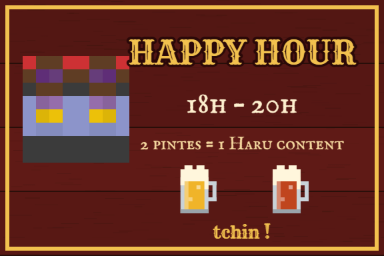
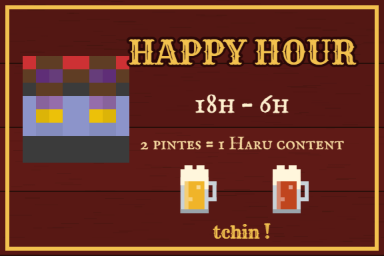
Stock the Cave à Haru bar and build it on whichever street row is bought
- /caveharu picks the pair of street lots owned by the same player, so it
  works from mid-street for the row facing the screenshot too.
- The bar's barrel rack is filled with the mod's drinks (one per column,
  16 per barrel) and a chalkboard "LA CARTE" lists Mouloud's prices next to
  the Happy Hour poster, now 18h – 6h.
- The cleared zone stops one row short of the street, so Martine keeps
  her fixed spot in front of the north row.
- Undo empties the cave's containers first (no drinks spilled), clears
  dropped decor, and cave paintings that load after an undo are dropped.

Changed region(s): [[0.4688, 0.3438, 0.7812, 0.4688]]

diff --git a/docs/cave-haru/cave.html b/docs/cave-haru/cave.html
@@ -169,6 +169,7 @@ const AFFS = [];
 function affiche(nom, x, y, z, face) { AFFS.push({ nom, x, y, z, face }); }
 let HARU = null;
 function haru(x, y, z, yaw) { HARU = { x, y, z, yaw }; }
+function remplir() {} // le contenu des tonneaux : seulement dans le jeu
 function deco(x, y, z, t, f = 'cube', d = null) { DECO.push({ x, y, z, t, f, d }); }
 function vide(x, y, z) { MAP.delete(cle(x, y, z)); }
 function h3(x, y, z) { const n = Math.sin(x * 127.1 + y * 311.7 + z * 74.7) * 43758.5453; return n - Math.floor(n); }
@@ -221,9 +222,11 @@ for (let z = 6; z <= 8; z++) { pose(11, 1, z, 'tonneau', 'cube', 'x'); pose(11, 
 deco(12, 2, 5, 'chope', 'chope_d'); deco(15, 2, 5, 'chope', 'chope_d'); deco(11, 2, 7, 'chope', 'chope_d');
 for (const x of [12, 14, 16]) pose(x, 1, 4, 'ep_dalle', 'dalle');
 // râtelier à fûts derrière le comptoir, l'affiche au-dessus
-for (let x = 12; x <= 18; x++) for (let y = 1; y <= 3; y++) pose(x, y, 8, 'tonneau', 'cube', 'z');
-for (const x of [12, 13, 17, 18]) pose(x, 4, 8, 'cn_dalle', 'dalle');
-for (const x of [12, 18]) deco(x, 4, 8, 'bouteille', 'bouteille_d');
+// une boisson par colonne, 16 bouteilles par tonneau
+const RATELIER = ['biere_blonde', 'biere_brune', 'biere_86', 'vin_rouge', 'pastis', 'rhum', 'biere_blonde'];
+for (let x = 12; x <= 18; x++) for (let y = 1; y <= 3; y++) { pose(x, y, 8, 'tonneau', 'cube', 'z'); remplir(x, y, 8, 'cabane:' + RATELIER[x - 12], 16); }
+for (const x of [12, 13]) { pose(x, 4, 8, 'cn_dalle', 'dalle'); deco(x, 4, 8, 'bouteille', 'bouteille_d'); }
+affiche('carte', 17, 4, 8, 'n');
 for (const x of [13, 15, 17]) pose(x, 2, 7, 'robinet', 'robinet', 'n');
 affiche('happy', 14, 4, 8, 'n');
 // une estrade derrière le comptoir : le barman dépasse
@@ -707,7 +710,7 @@ const AFFICHES = {
     bois(g, W, H, [96, 26, 22]); cadre(g, W, H, '#f2c14e', 6, 8);
     tete(g, 34, 84, 20);
     texte(g, 'HAPPY HOUR', W * 0.63, 82, 66, RYE, '#f2c14e', { contour: '#2a0808', ep: 8, maxW: W * 0.6 });
-    texte(g, '18h – 20h', W * 0.63, 160, 46, FELL, '#fff1d0');
+    texte(g, '18h – 6h', W * 0.63, 160, 46, FELL, '#fff1d0');
     texte(g, '2 pintes = 1 Haru content', W * 0.63, 218, 28, FELL, '#f6d9a0', { maxW: W * 0.6 });
     chope(g, W * 0.47, 254, 6); chope(g, W * 0.71, 254, 6, '#c0451e');
     texte(g, 'tchin !', W * 0.63, 350, 26, RYE, '#f2c14e');
@@ -779,6 +782,25 @@ const AFFICHES = {
     bois(g, W, H, [120, 82, 44]); cadre(g, W, H, '#3a2010', 6);
     texte(g, 'FÛT N°1', W / 2, H * 0.37, 56, RYE, '#fff1d0', { contour: '#2a1408', ep: 6 });
     texte(g, 'LA BLONDE', W / 2, H * 0.76, 34, FELL, '#f6d58a');
+  } },
+  carte: { titre: 'La carte et les prix (au-dessus du bar)', w: 2, h: 2, dessin(g, W, H) {
+    // une ardoise de bistrot, à la craie
+    bois(g, W, H, [80, 50, 28]);
+    g.fillStyle = '#1f2a24'; g.fillRect(16, 16, W - 32, H - 32);
+    const R = rng(77); for (let i = 0; i < 400; i++) { g.fillStyle = `rgba(255,255,255,${R() * 0.05})`; g.fillRect(16 + R() * (W - 32), 16 + R() * (H - 32), 3, 1); }
+    texte(g, 'LA CARTE', W / 2, 54, 44, RYE, '#f4efe2');
+    g.strokeStyle = 'rgba(244,239,226,0.7)'; g.lineWidth = 2; g.beginPath(); g.moveTo(70, 82); g.lineTo(W - 70, 82); g.stroke();
+    const lignes = [['Bière blonde', 15, '#f2c14e'], ['Bière brune', 18, '#c98a4a'], ['Bière 8.6', 25, '#f6d58a'], ['Vin rouge', 30, '#e0574f'], ['Pastis', 35, '#f2e06a'], ['Rhum', 40, '#d99a5a']];
+    lignes.forEach(([nom, prix, coul], i) => {
+      const y = 112 + i * 34;
+      g.fillStyle = coul; g.fillRect(40, y - 7, 12, 14);
+      texte(g, nom, 62, y, 23, FELL, '#f4efe2', { align: 'left' });
+      g.fillStyle = 'rgba(244,239,226,0.45)'; for (let x = 62 + g.measureText(nom).width + 8; x < W - 96; x += 9) g.fillRect(x, y + 6, 3, 2);
+      texte(g, String(prix), W - 52, y, 26, RYE, '#f4efe2', { align: 'right' });
+    });
+    texte(g, 'Sodas : 8', W / 2, H - 70, 19, FELL, '#bfe0c8');
+    texte(g, 'prix en SakaiDollars', W / 2, H - 44, 15, FELL, 'rgba(244,239,226,0.7)');
+    tete(g, W - 74, H - 86, 5);
   } },
   fut2: { titre: 'Plaque du fût n°2 (la porte secrète)', w: 3, h: 1, dessin(g, W, H) {
     bois(g, W, H, [120, 82, 44]); cadre(g, W, H, '#3a2010', 6);

diff --git a/mod-cabane/src/main/java/fr/cabane/hub/CaveHaru.java b/mod-cabane/src/main/java/fr/cabane/hub/CaveHaru.java
@@ -45,6 +45,7 @@ import net.minecraft.world.entity.decoration.HangingEntity;
 import net.minecraft.world.entity.decoration.Painting;
 import net.minecraft.world.entity.item.ItemEntity;
 import net.minecraft.world.entity.player.Player;
+import net.minecraft.world.item.ItemStack;
 import net.minecraft.world.level.Level;
 import net.minecraft.world.level.block.Block;
 import net.minecraft.world.level.block.Blocks;
@@ -62,6 +63,7 @@ import net.neoforged.bus.api.EventPriority;
 import net.neoforged.bus.api.SubscribeEvent;
 import net.neoforged.fml.common.EventBusSubscriber;
 import net.neoforged.neoforge.event.RegisterCommandsEvent;
+import net.neoforged.neoforge.event.entity.EntityJoinLevelEvent;
 import net.neoforged.neoforge.event.entity.player.PlayerInteractEvent;
 import net.neoforged.neoforge.event.level.BlockEvent;
 import net.neoforged.neoforge.event.level.ExplosionEvent;
@@ -86,8 +88,11 @@ public final class CaveHaru {
     private static final ResourceLocation PLAN = ResourceLocation.fromNamespaceAndPath(Cabane.MODID, "cave_haru/plan.json");
     private static final ResourceLocation AVANT = ResourceLocation.fromNamespaceAndPath(Cabane.MODID, "cave_haru_avant");
 
-    /** Les deux terrains (coordonnées du plan) ; sous terre, seulement sous le bâtiment. */
-    private static final int X_MIN = -1, X_MAX = 20, Z_MIN = -2, Z_MAX = 9, Y_MIN = -13, Y_MAX = 14;
+    /**
+     * Les deux terrains (coordonnées du plan) ; sous terre, seulement sous le bâtiment. Le premier rang côté rue (z -2)
+     * reste comme il est : Martine y a sa place, devant la rangée nord.
+     */
+    private static final int X_MIN = -1, X_MAX = 20, Z_MIN = -1, Z_MAX = 9, Y_MIN = -13, Y_MAX = 14;
     private static final int BLOCS_PAR_TICK = 12, DEBLAI_PAR_TICK = 300;
 
     /** Les deux paires de maisons de la rue : leurs terrains dans {@link HubBuilder#lotsAVendre()}, et où tombe le plan. */
@@ -157,27 +162,33 @@ public final class CaveHaru {
             return 0;
         }
 
-        // les deux terrains les plus proches du joueur
+        // les deux rangées de la rue se font face : d'abord celle dont les deux terrains sont au même joueur, sinon la plus proche
         List<int[]> lots = HubBuilder.lotsAVendre();
         Rangee rangee = null;
         double meilleure = Double.MAX_VALUE;
+        boolean achetee = false;
         for (Rangee r : RANGEES) {
             int[] a = lots.get(r.lotA()), b = lots.get(r.lotB());
             double x0 = c.getX() + Math.min(a[0], b[0]), x1 = c.getX() + Math.max(a[2], b[2]) + 1;
             double z0 = c.getZ() + Math.min(a[1], b[1]), z1 = c.getZ() + Math.max(a[3], b[3]) + 1;
             double dx = Math.max(0, Math.max(x0 - ou.x, ou.x - x1)), dz = Math.max(0, Math.max(z0 - ou.z, ou.z - z1));
             double d = Math.hypot(dx, dz);
-            if (d < meilleure) {
+            if (d > 20) {
+                continue;
+            }
+            UUID pa = proprietaire(level, c, a), pb = proprietaire(level, c, b);
+            boolean memeProprio = pa != null && pa.equals(pb);
+            if ((memeProprio && !achetee) || (memeProprio == achetee && d < meilleure)) {
                 meilleure = d;
                 rangee = r;
+                achetee = memeProprio;
             }
         }
-        if (rangee == null || meilleure > 20) {
-            source.sendFailure(Component.literal("Mets-toi devant les deux maisons de la rue (les deux terrains côte à côte), puis relance."));
+        if (rangee == null) {
+            source.sendFailure(Component.literal("Mets-toi dans la rue, devant les deux maisons (les deux terrains côte à côte), puis relance."));
             return 0;
         }
-        UUID proprioA = proprietaire(level, c, lots.get(rangee.lotA())), proprioB = proprietaire(level, c, lots.get(rangee.lotB()));
-        if (!forcer && (proprioA == null || !proprioA.equals(proprioB))) {
+        if (!forcer && !achetee) {
             source.sendFailure(Component.literal("Les deux terrains doivent être achetés par le même joueur (ajoute « forcer » pour construire quand même)."));
             return 0;
         }
@@ -244,7 +255,16 @@ public final class CaveHaru {
         for (Entity e : level.getEntities((Entity) null, zone, x -> x.getTags().contains(TAG) || x instanceof HangingEntity || x instanceof ItemEntity)) {
             e.discard();
         }
+        // les tonneaux et coffres de la cave se vident sans rien jeter par terre, puis les maisons reviennent
+        for (BlockPos p : BlockPos.betweenClosed(min, min.offset(taille.getX() - 1, taille.getY() - 1, taille.getZ() - 1))) {
+            if (level.getBlockEntity(p) instanceof Container coffre) {
+                coffre.clearContent();
+            }
+        }
         photo.get().placeInWorld(level, min, min, new StructurePlaceSettings(), level.getRandom(), Block.UPDATE_CLIENTS | Block.UPDATE_KNOWN_SHAPE);
+        for (Entity e : level.getEntities((Entity) null, zone, x -> x instanceof ItemEntity)) {
+            e.discard(); // les bougies et lanternes décrochées
+        }
         d.effacer();
         fermerA = -1;
         source.sendSuccess(() -> Component.literal("Cave à Haru enlevée, les maisons sont revenues.").withStyle(ChatFormatting.GOLD), true);
@@ -569,6 +589,22 @@ public final class CaveHaru {
                 level.addFreshEntity(tableau);
             }
             barman(o.getAsJsonArray("haru"));
+            // le râtelier du bar : une boisson par colonne
+            for (JsonElement t : o.getAsJsonArray("tonneaux")) {
+                JsonArray a = t.getAsJsonArray();
+                BlockPos p = pose.bloc(a.get(0).getAsInt(), a.get(1).getAsInt(), a.get(2).getAsInt());
+                var objet = BuiltInRegistries.ITEM.getOptional(ResourceLocation.parse(a.get(3).getAsString()));
+                if (objet.isPresent() && level.getBlockEntity(p) instanceof net.minecraft.world.level.block.entity.BarrelBlockEntity tonneau) {
+                    ItemStack pile = new ItemStack(objet.get(), a.get(4).getAsInt());
+                    for (int slot = 0; !pile.isEmpty() && slot < tonneau.getContainerSize(); slot++) {
+                        ItemStack morceau = pile.split(Math.min(pile.getCount(), pile.getMaxStackSize()));
+                        tonneau.setItem(slot, morceau);
+                    }
+                    tonneau.setChanged();
+                } else {
+                    LOG.warn("Tonneau de la cave introuvable en {} ({})", p, a.get(3).getAsString());
+                }
+            }
         }
 
         /** Haru derrière son comptoir : un PNJ immobile qui porte son skin. */
@@ -592,6 +628,14 @@ public final class CaveHaru {
             } catch (com.mojang.brigadier.exceptions.CommandSyntaxException ex) {
                 LOG.error("Barman de la cave illisible", ex);
             }
+        }
+    }
+
+    /** Un tableau ou le barman de la cave qui se recharge alors que la cave a été enlevée (pas encore chargé pendant l'annulation). */
+    @SubscribeEvent
+    public static void rejoint(EntityJoinLevelEvent event) {
+        if (event.getEntity().getTags().contains(TAG) && event.getLevel() instanceof ServerLevel l && !Donnees.get(l.getServer()).present) {
+            event.setCanceled(true);
         }
     }
 
